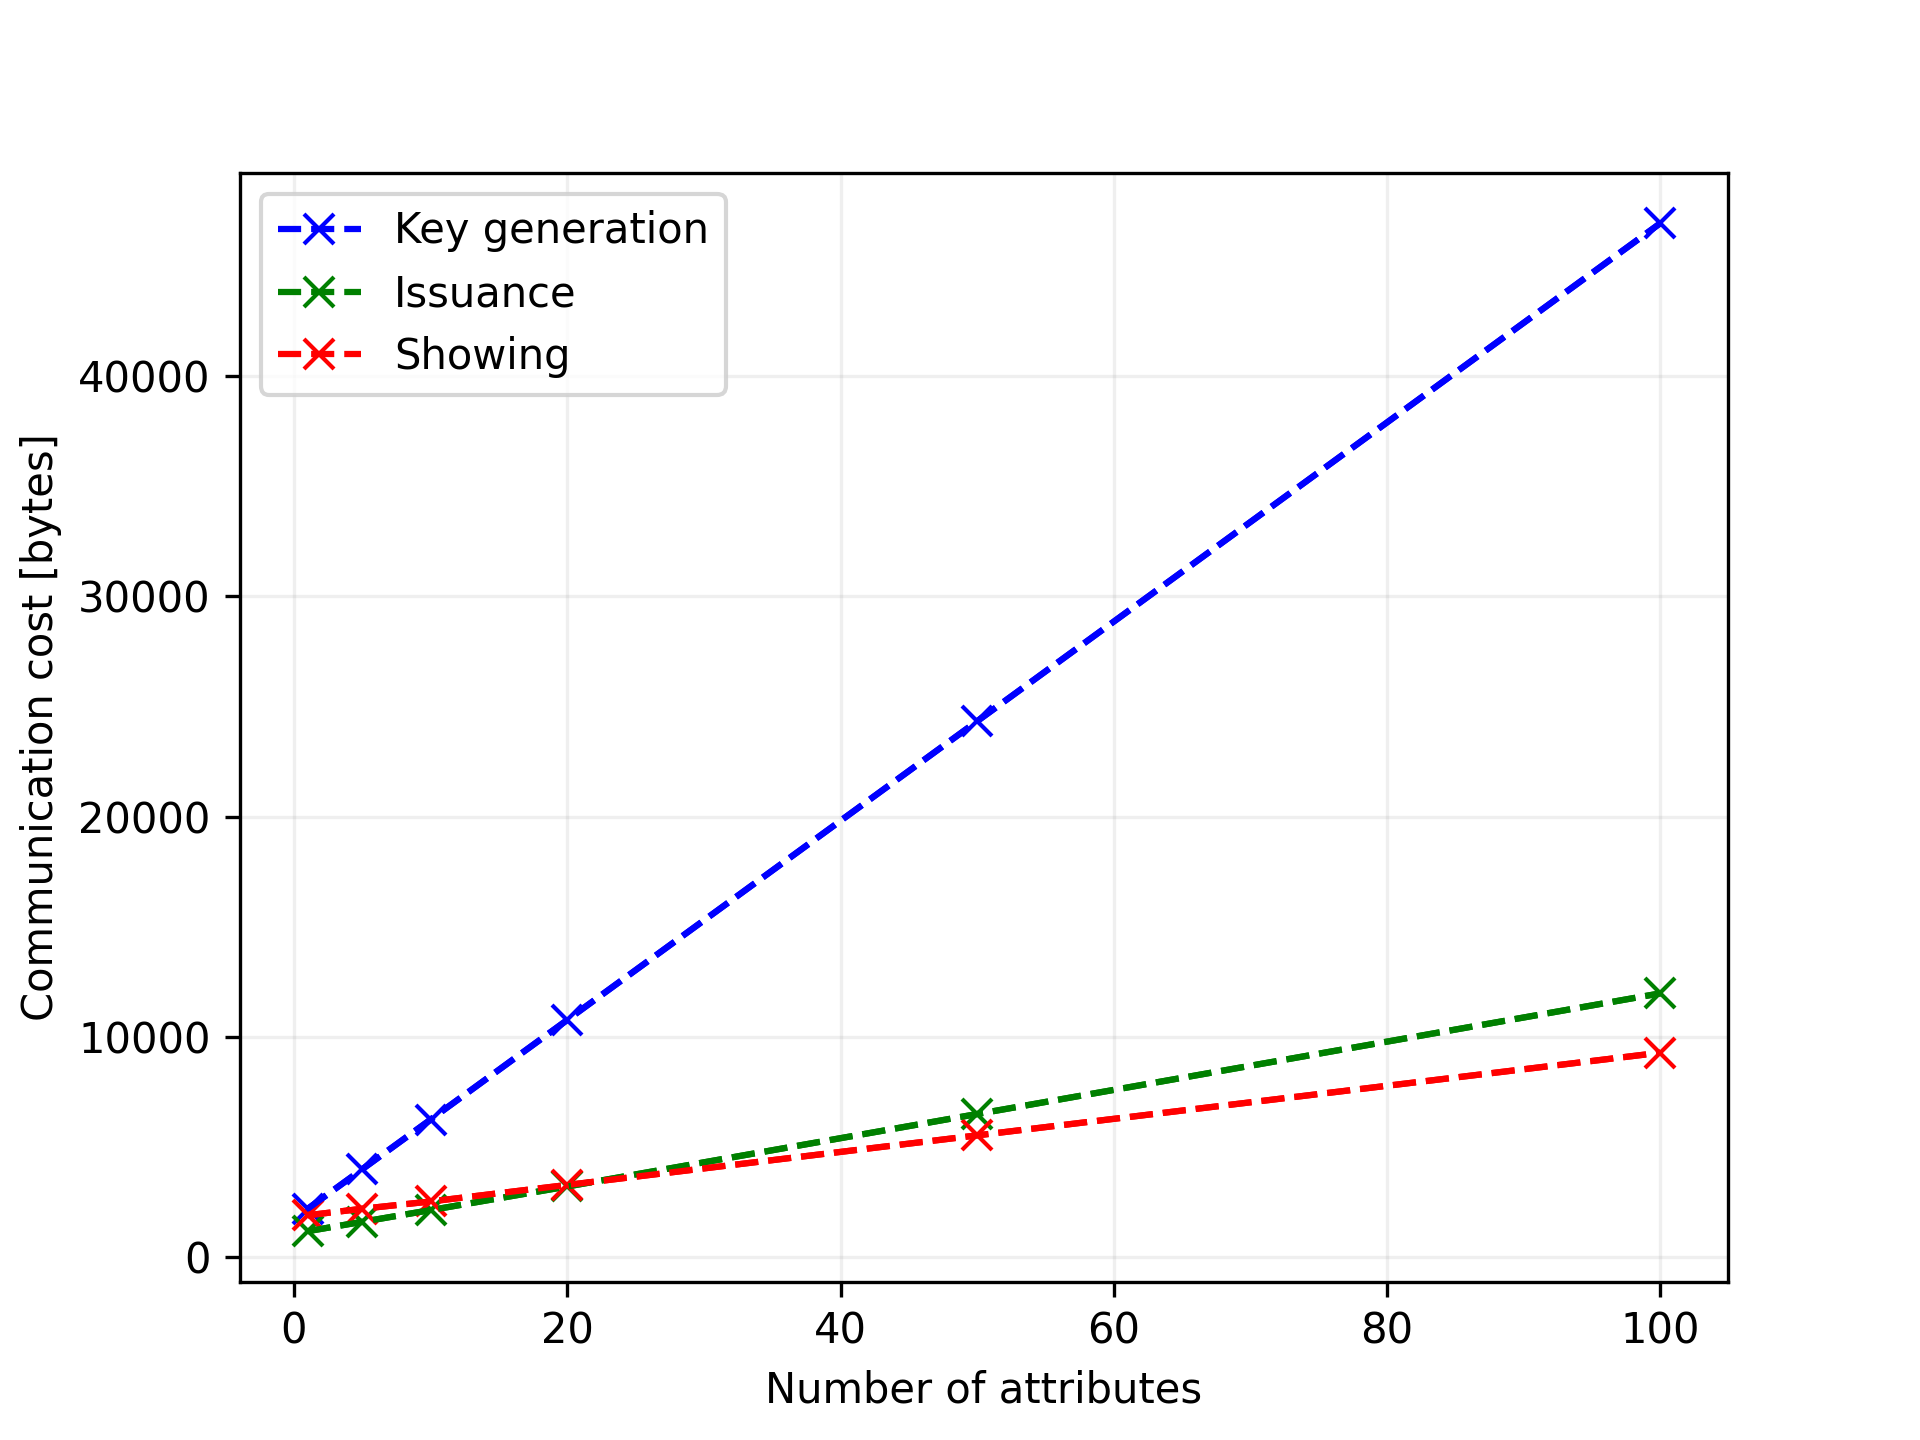
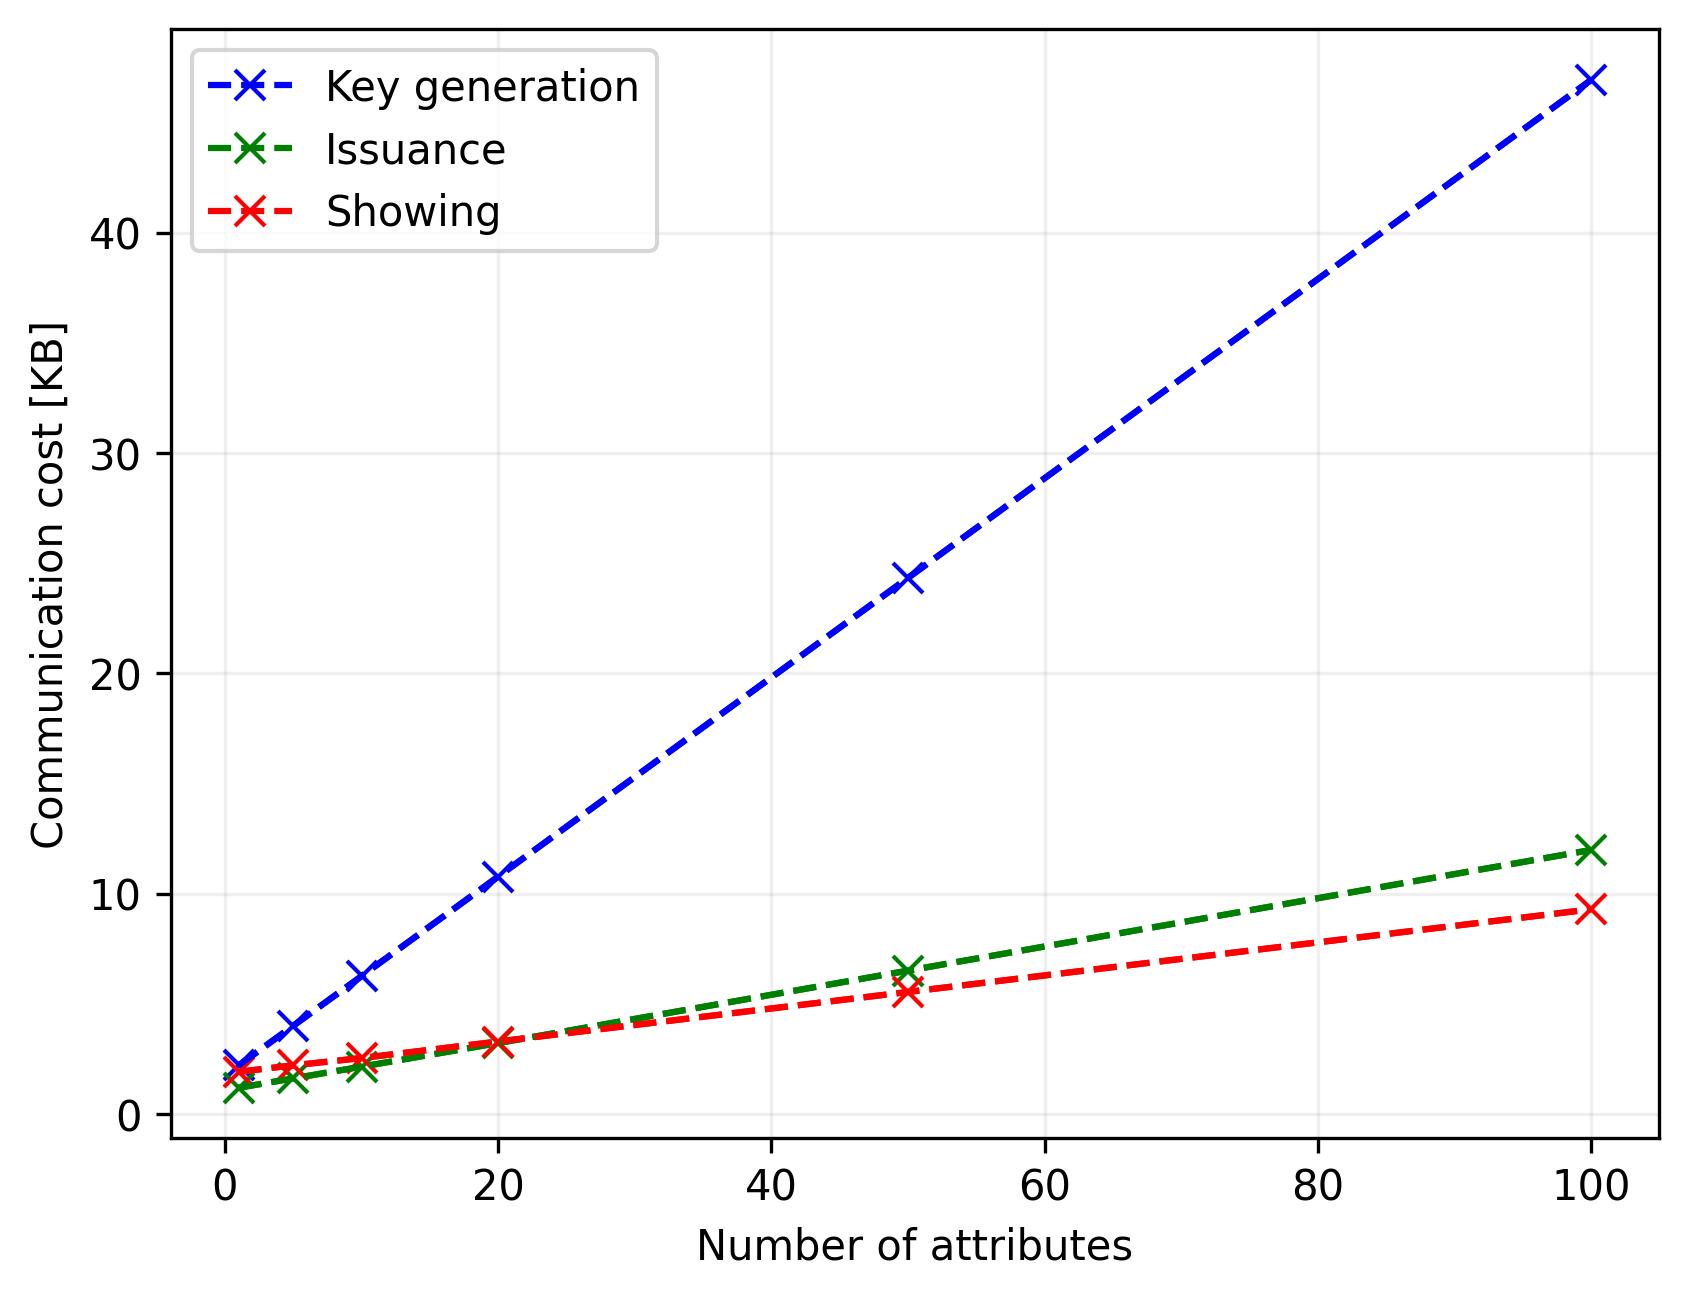
Fix units in plots

diff --git a/secretstroll/benchmarks/plotter.py b/secretstroll/benchmarks/plotter.py
@@ -29,8 +29,8 @@ def read_communication_costs_from_file(filename: str) -> Dict[int, float]:
         # Strip lines
         lines = [line.replace(":", "").replace(",", "").split(" ") for line in f.readlines()]
 
-        # Strip and convert to actual values
-        result = {int(num_attributes): (float(mean), float(std)) for num_attributes, mean, std in lines}
+        # Strip and convert to actual values and transform to KB
+        result = {int(num_attributes): (float(mean) / 1000, float(std) / 1000) for num_attributes, mean, std in lines}
 
     return result
 
@@ -74,12 +74,12 @@ def generate_plot(path: str, show: bool = False):
     plt.grid(which='major', color='#666666', linestyle='-', alpha=0.1)
 
     # Add legend and labels
-    plt.ylabel("Communication cost [bytes]" if "communication" in path else "Computation cost [s]")
+    plt.ylabel("Communication cost [KB]" if "communication" in path else "Computation cost [ms]")
     plt.xlabel("Number of attributes")
     plt.legend()
 
     # Save the plot
-    plt.savefig(path + path.replace("/", ".png"), dpi=300)
+    plt.savefig(path + path.replace("/", ".png"), dpi=300, bbox_inches='tight')
 
     # Show the plot
     if show:
